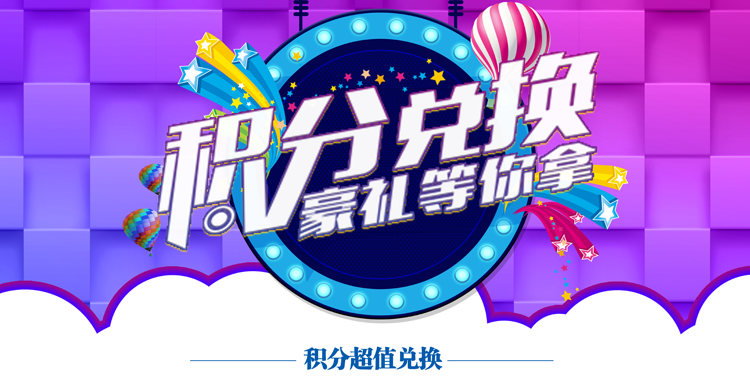
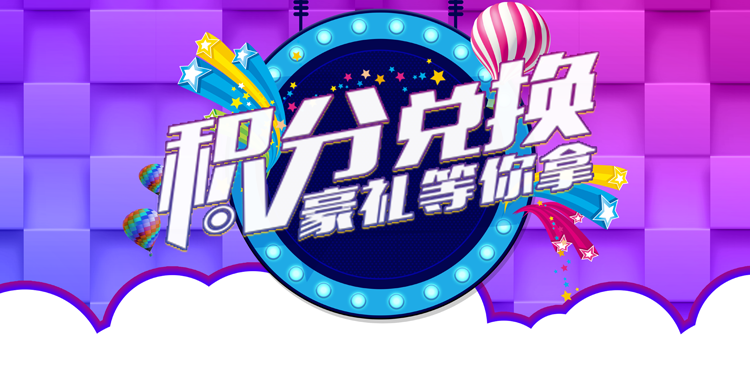
【积分商城】样式修改

Changed region(s): [[0.2453, 0.8974, 0.736, 0.9842]]

diff --git a/application/index/view/exchange/index.html b/application/index/view/exchange/index.html
@@ -4,21 +4,39 @@
 <title>积分商城</title>
 <link rel="stylesheet" href="/index/css/exchange/index.css">
 <style>
-
+    .icon-remarks{
+        position: absolute;
+        right:12px;top:13px;display:block;height:15px;width:15px;
+        border:2px solid #fff;
+        border-radius: 50%;
+        text-align: center;
+        line-height: 15px;
+        text-align: center;
+        color: #fff;
+        font-weight: bold;
+        /*background:url(/index/images/service/patent/icon-remarks.png) no-repeat center;background-size:15px 15px*/
+    }
 </style>
 {/block}
 
 {block name="body"}
 <div id="app">
     <div class="banner">
-        <div class="score">
-            <span>{{baseData.score}}</span>
-        </div>
-        <div class="record" @click="jumpTo(2)">兑换记录</div>
+        <!--<div class="score">-->
+            <!--<span>{{baseData.score}}</span>-->
+        <!--</div>-->
+        <!--<div class="record" @click="jumpTo(2)">兑换记录</div>-->
+        <a href="/index/exchange/rule" class="icon-remarks">!</a>
     </div>
-    <div class="title">
-        <span class="title_icon_fire">新品上市</span>
-    </div>
+    <ul class="tab">
+        <li><span class="score">{{baseData.score}}</span></li>
+        <li>
+            <div class="record" @click="jumpTo(2)">兑换记录</div>
+        </li>
+    </ul>
+    <!--<div class="title">-->
+        <!--<span class="title_icon_fire">新品上市</span>-->
+    <!--</div>-->
     <div class="new_lists"  id="pullrefresh">
         <div class="new_list" v-for="product in baseData.product" @click="jumpTo(1,product.id)">
             <div class="box">

diff --git a/public/index/css/exchange/index.css b/public/index/css/exchange/index.css
@@ -17,21 +17,10 @@ header.header{
     background-size:100% 100%;
     position: relative;
 }
-.banner>.score{
-    position: absolute;
-    top: 10px;
-    left:12px;
-    height:22px;
-    line-height: 22px;
-    color: #ffffff;
-    font-size: 15px;
-    padding-left: 27px;
-    background: url("/index/images/exchange/icon_score_white.png") 0 50% no-repeat;
-    background-size: contain;
-}
+
 .banner>.record{
     position: absolute;
-    right: 12px;
+    right: 33px;
     top:10px;
     height:22px;
     line-height: 22px;
@@ -42,6 +31,43 @@ header.header{
     -webkit-border-radius:5px;
     -moz-border-radius:5px;
     border-radius:5px;
+}
+
+.tab{
+    display: -webkit-flex;
+    display: flex;
+    justify-content: center;
+    align-items: center;
+    padding: 0 0 1rem;
+    width:100%;
+    background-color: #fff;
+    border-bottom: 0.8rem solid #f5f5f5;
+    font-size: 1.4rem;
+    /*border-top: 0.8rem solid #f5f5f5;*/
+}
+.tab>li{
+    height:100%;
+    width:50%;
+    height:2.5rem;
+    display: -webkit-flex;
+    display: flex;
+    justify-content: center;
+    align-items: center;
+    color: #333;
+}
+
+.tab>li:not(:last-child){
+    border-right: 1px solid #d8d8d8;
+}
+.tab .score{
+    /*position: absolute;*/
+    /*top: 10px;*/
+    /*left:12px;*/
+    height:2rem;
+    line-height: 2rem;
+    padding-left: 27px;
+    background: url("/index/images/exchange/icon_score_yellow.png") 0 50% no-repeat;
+    background-size: contain;
 }
 
 .title {
